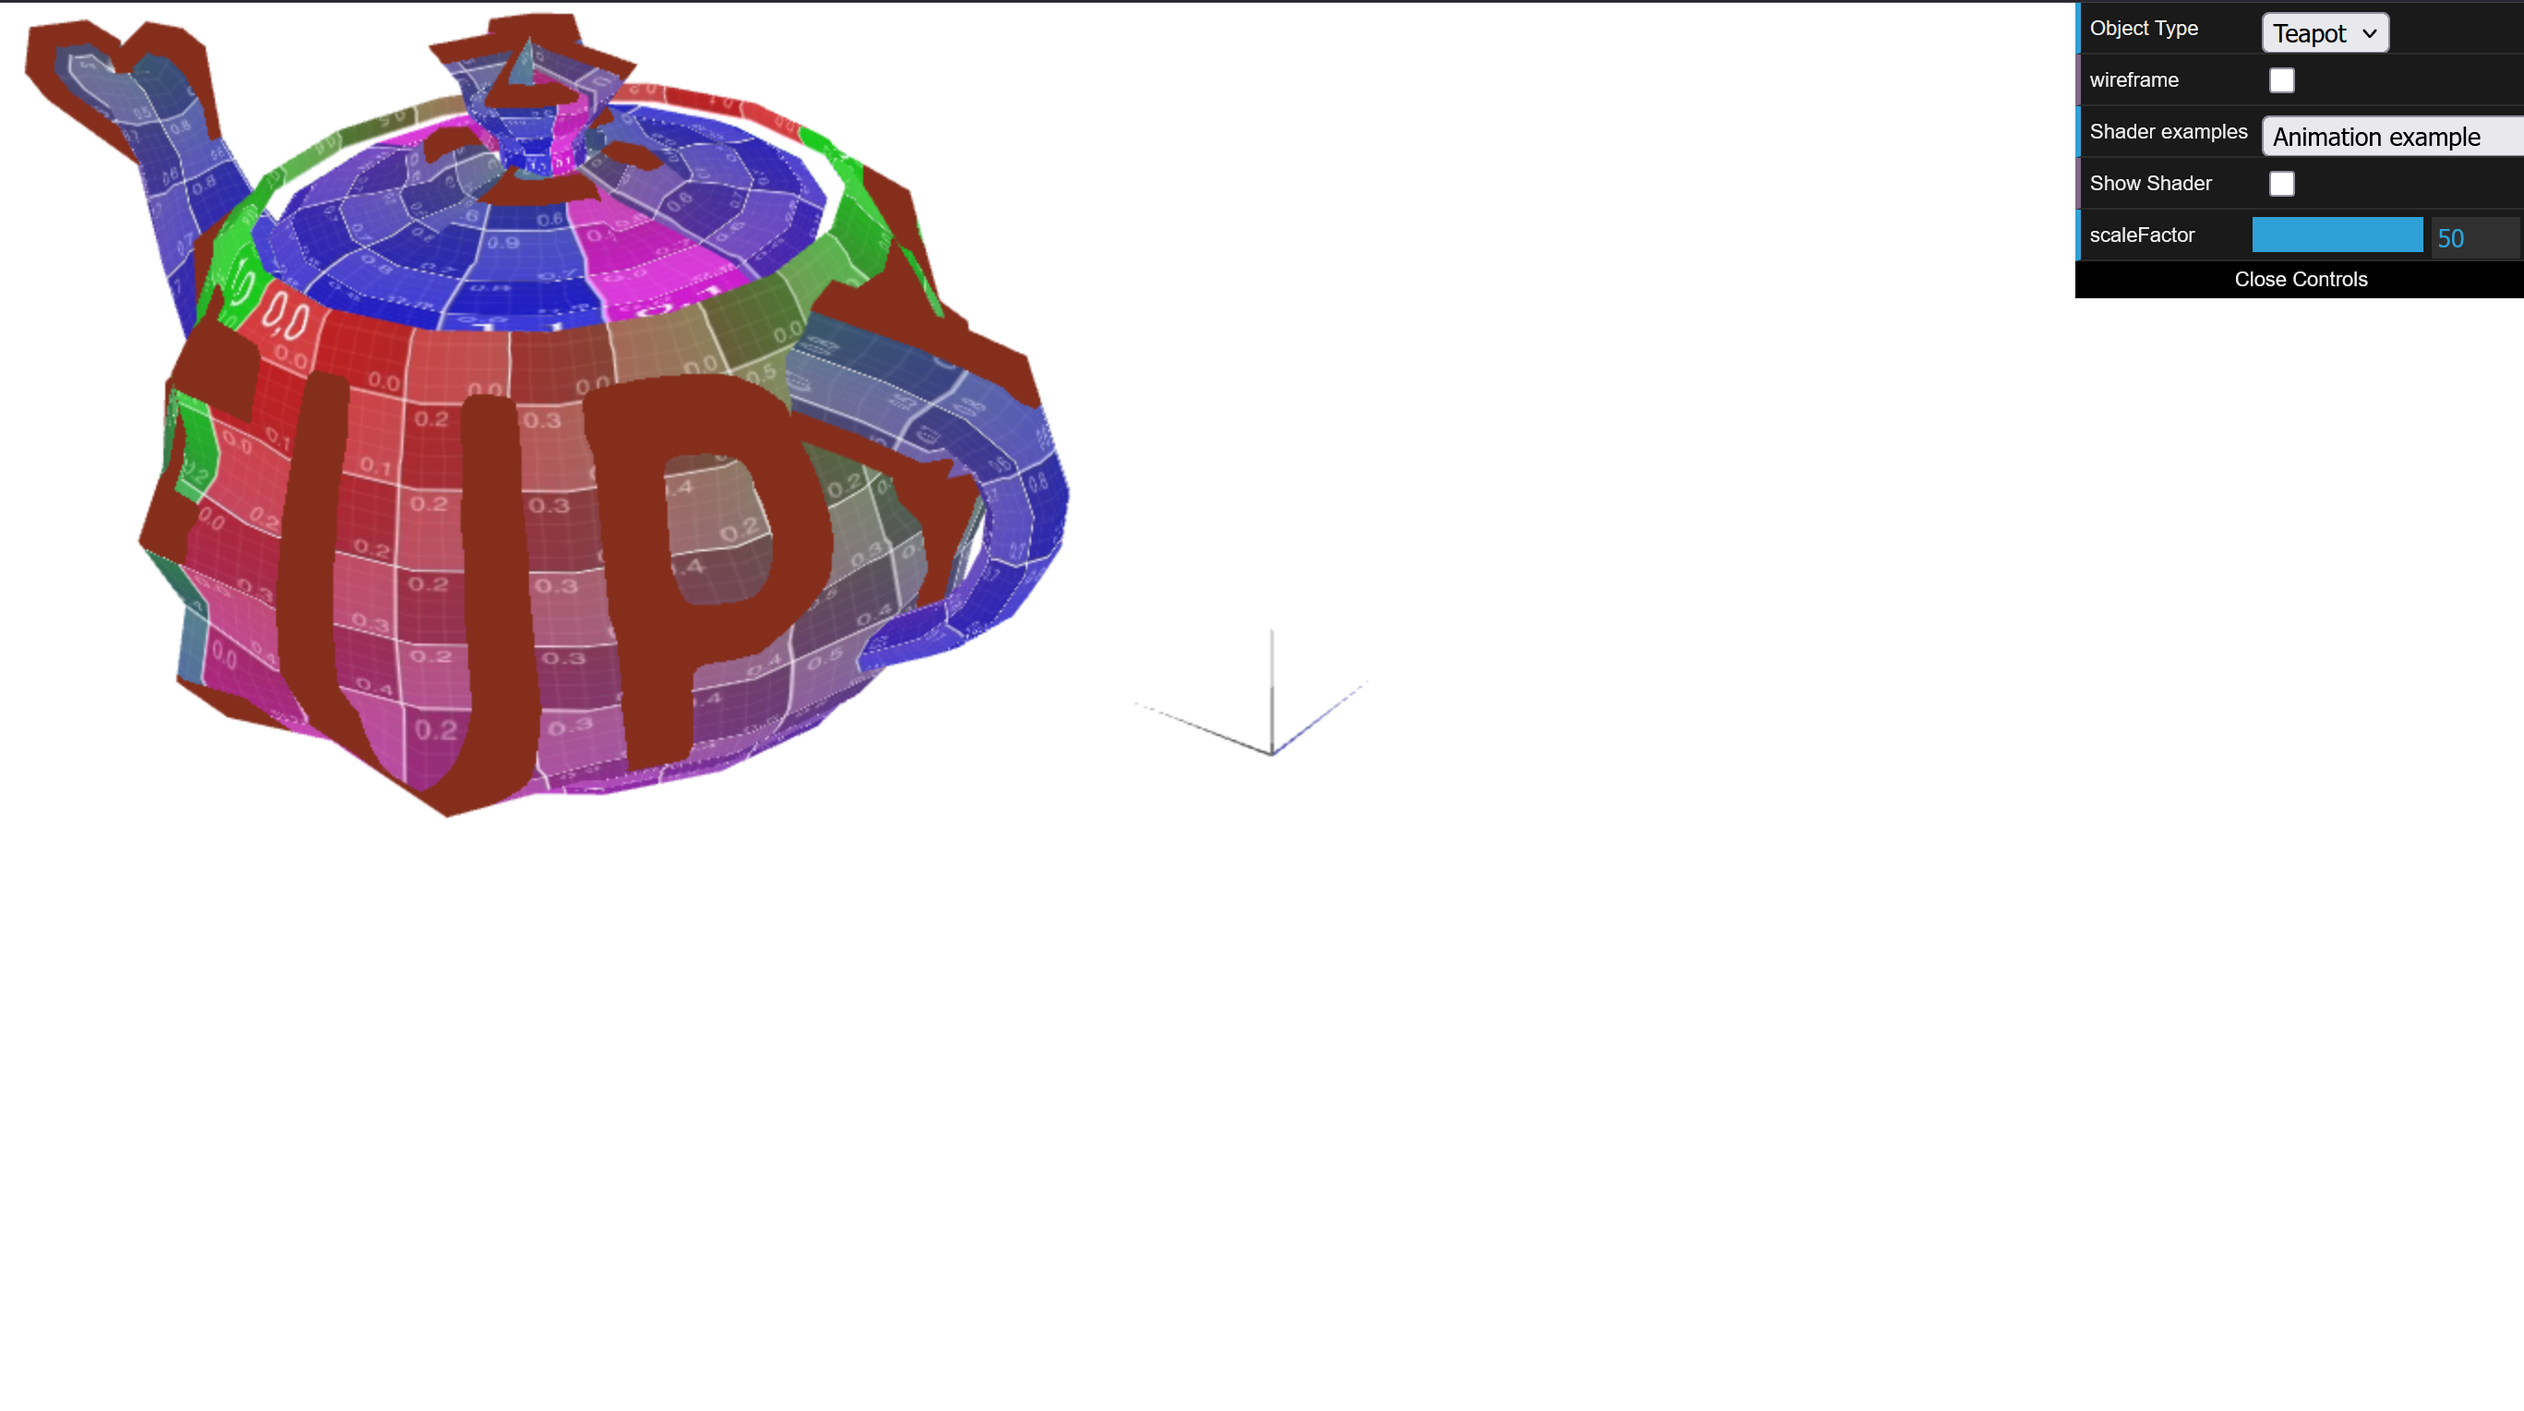
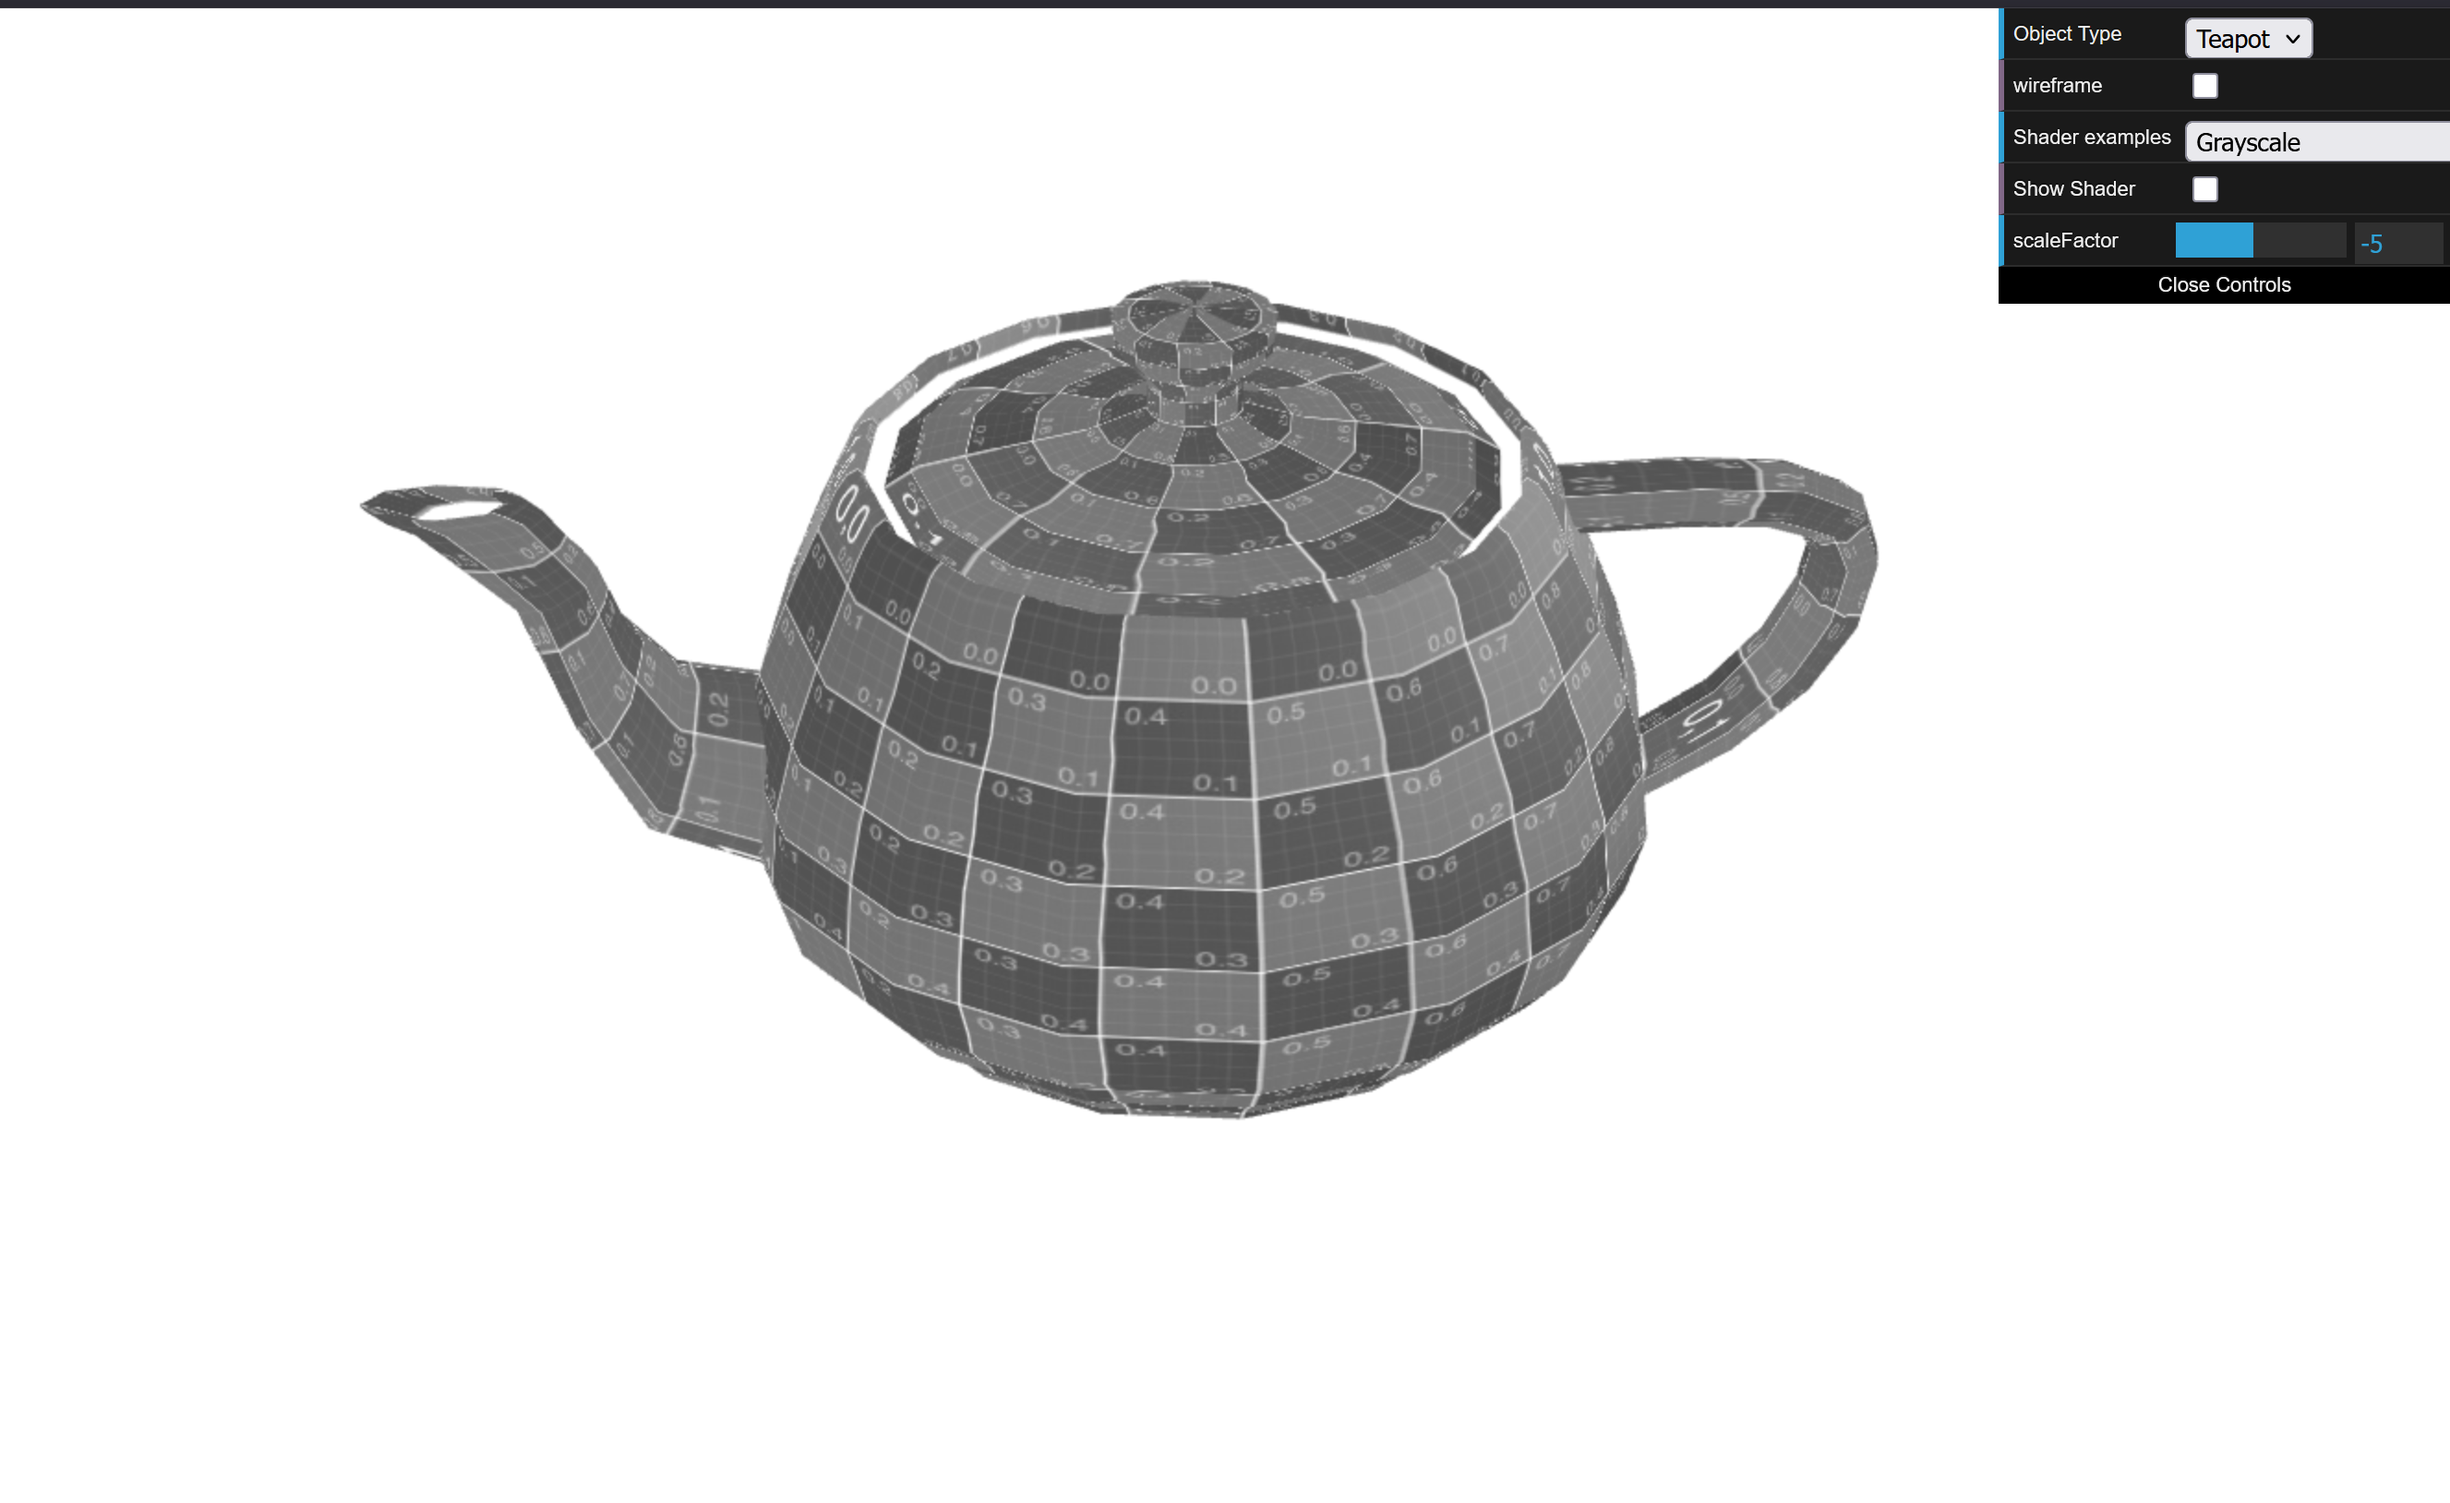
cleaned up tp5 screenshots and readme.

diff --git a/tp5/README.md b/tp5/README.md
@@ -5,16 +5,11 @@
 ## TP 5 Notes
 
 - For the first exercise, we created a custom shader pair for the teapot where the color depends on the fragment position in the window: yellow on the upper half and blue on the lower half. The vertex shader computes and passes the normalized screen-space Y coordinate to the fragment shader.
-
-![Screenshot 1](screenshots/cg-t11g03-tp5-1.png)
-*Figure 1.*
-
 - In the animation shader, we extended the existing effect by adding a sinusoidal translation on the X axis (`back and forth` movement), while keeping the previous normal-based displacement. The new translation amplitude depends on `scaleFactor` through `normScale`.
-
-![Screenshot 2](screenshots/cg-t11g03-tp5-2.png)
-*Figure 2.*
-
 - Based on the Sepia example, we created a new Grayscale fragment shader that converts each sampled color to luminance using `L = 0.299R + 0.587G + 0.114B`, then outputs `(L, L, L)`.
 
-![Screenshot 3](screenshots/cg-t11g03-tp5-3.png)
-*Figure 3.*
+![Screenshot 1](screenshots/cg-t11g03-tp5-1.png)
+*Figure 1: ...*
+
+![Screenshot 2](screenshots/cg-t11g03-tp5-2.png)
+*Figure 2: ...*

diff --git a/tp4/README.md b/tp4/README.md
@@ -5,7 +5,6 @@
 ## TP 4 Notes
 
 - We imported the Tangram and its piece classes into TP4, added a GUI option to hide the reference quad, created and applied a texture material with `images/tangram.png`, and defined the texture coordinates (`this.texCoords`) for each piece.
-
 - For the second part, `MyUnitCubeQuad` was imported and changed to receive six `CGFtexture` objects as parameters for the cube faces, and now applies the textures with a GUI toggle to switch between nearest and linear filtering.
 
 ![Screenshot 1](screenshots/cg-t11g03-tp4-1.png)
